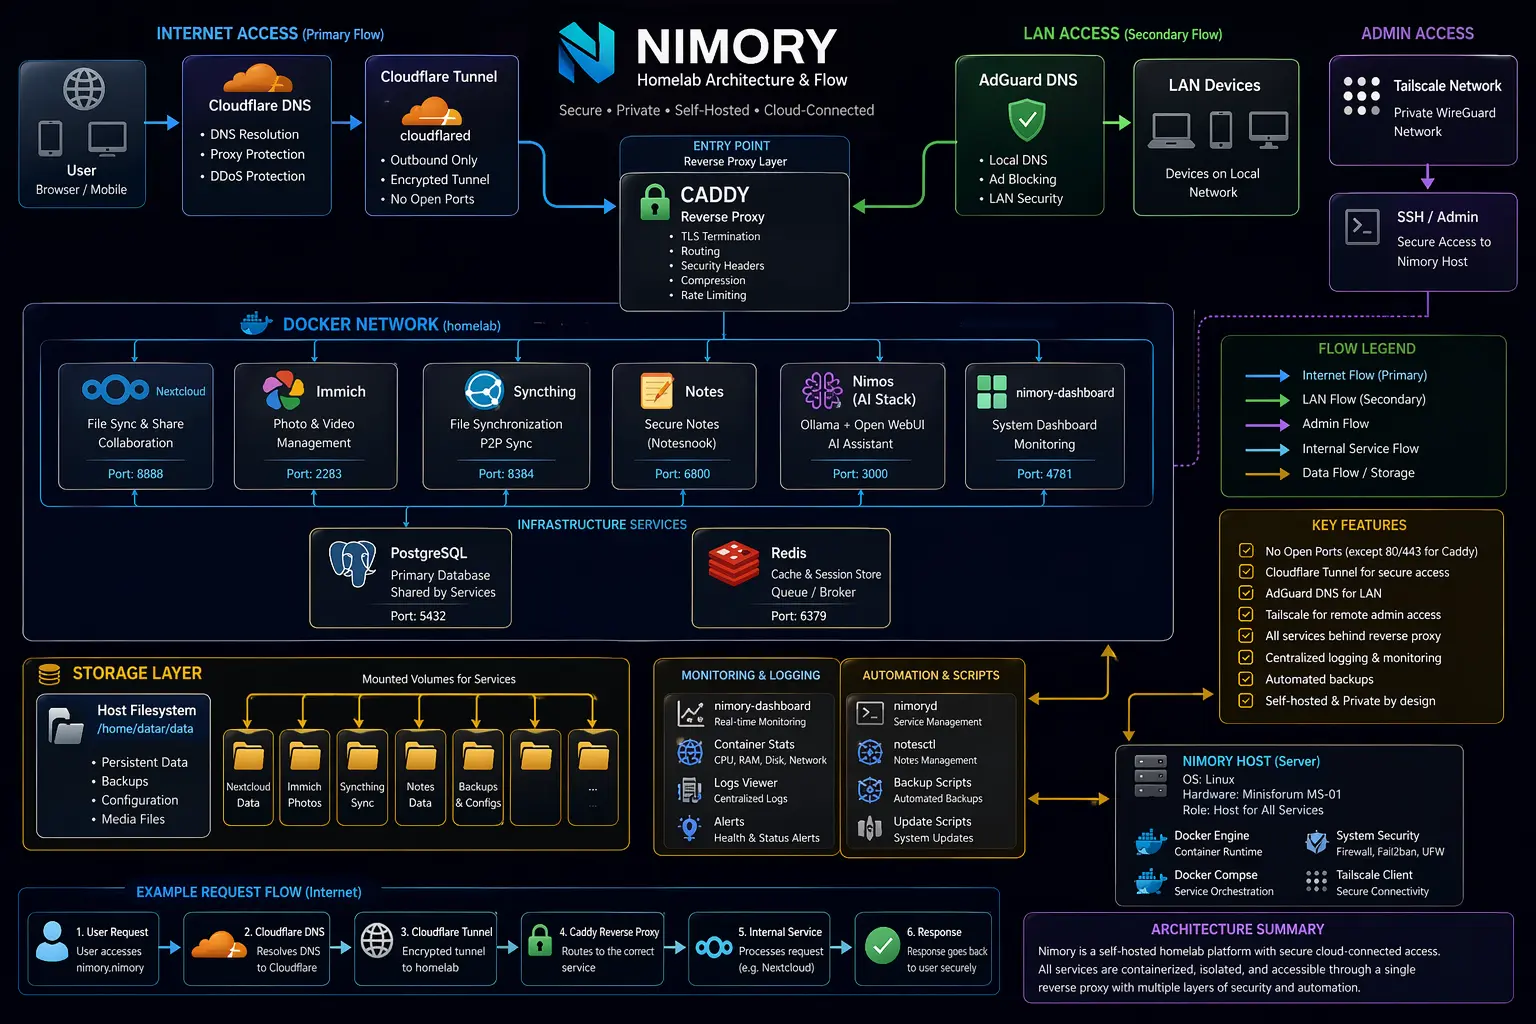
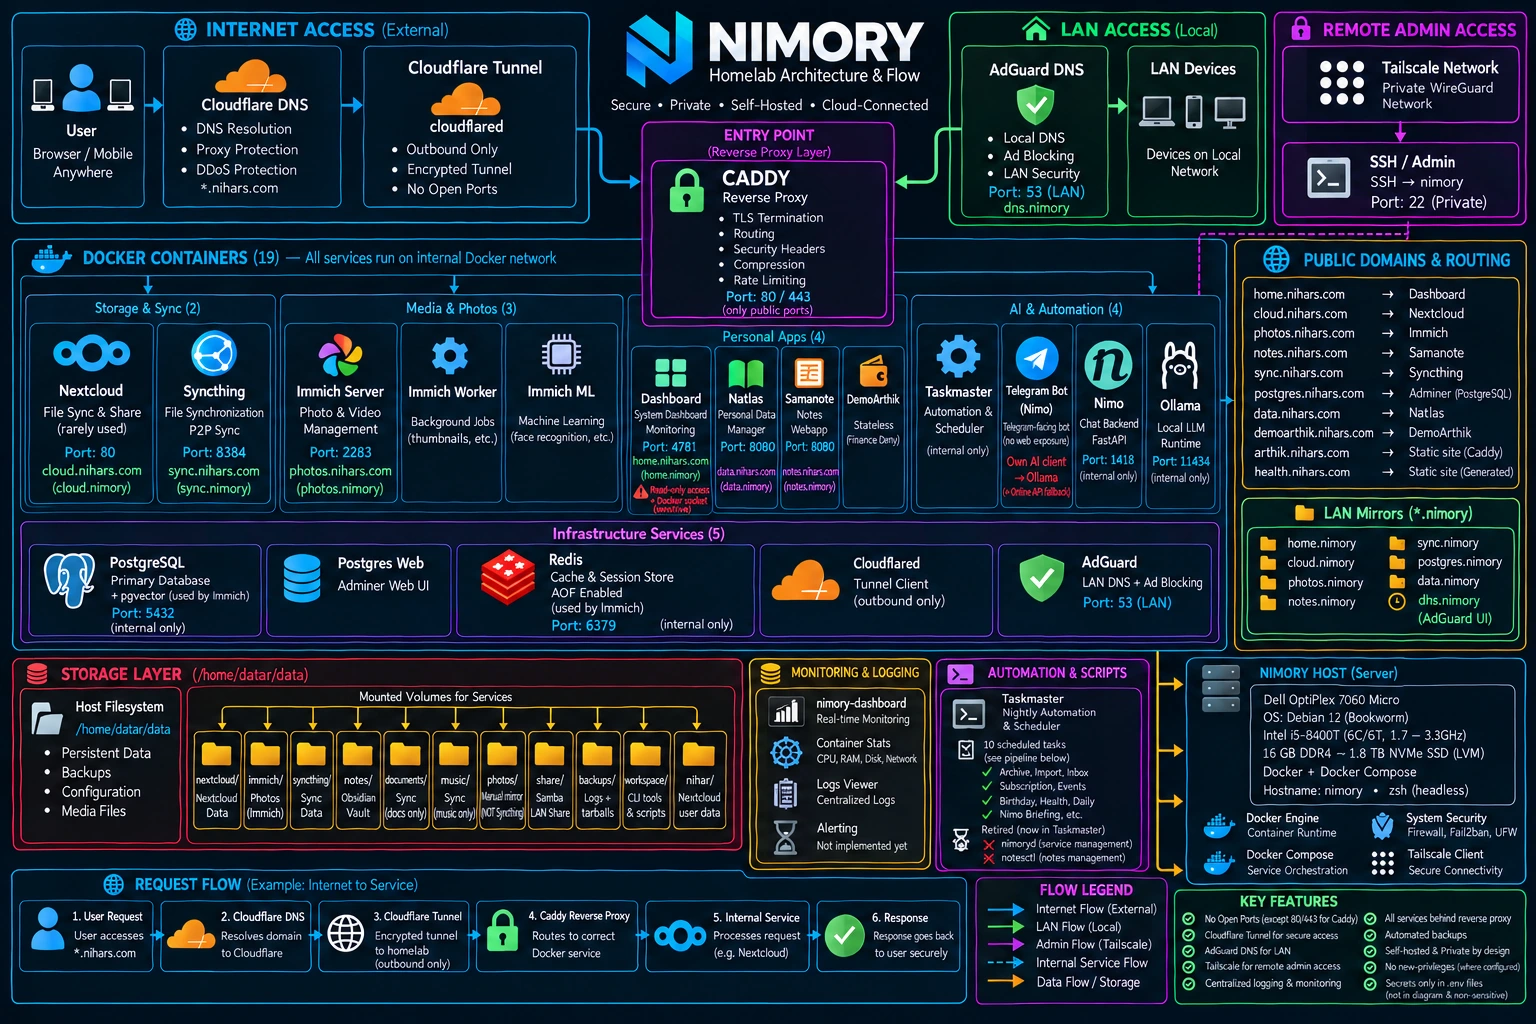
homelab details updated

diff --git a/content/note/homelab_nimory.md b/content/note/homelab_nimory.md
@@ -1,11 +1,11 @@
 ---
 title: "nimory: My Internet at Home"
 subtitle: "nihar's internet microcloud operating runtime yottabyte"
-date: 2026-05-13
+date: 2026-10-03
 tags: [home,note,generic]
 ---
 
-[nimory](https://home.nihars.com) is a single machine running everything I need — files, photos, notes, sync, and local AI.
+[nimory](https://home.nihars.com) is a single machine running everything I need — files, photos, notes, sync, automation, and local AI.
 No subscriptions. No third-party dependency for the things that matter.
 
 This is a write-up of how it's built and how it works.
@@ -19,7 +19,7 @@ This is a write-up of how it's built and how it works.
 
 ## Hardware 🖥
 
-A Dell OptiPlex 7060. Small form factor, low power, silent enough to ignore.
+A Dell OptiPlex 7060 Micro. Small form factor, low power, silent enough to ignore.
 
 * Hostname : nimory
 * OS       : Debian 12 (Bookworm)
@@ -104,7 +104,11 @@ Security headers:
 * sync.nihars.com → Syncthing
 * home.nihars.com → Dashboard
 * notes.nihars.com → Samanote
-* nimos.nihars.com → AI UI
+* postgres.nihars.com → Adminer (Postgres admin)
+* data.nihars.com → Natlas
+* health.nihars.com → static health site (generated nightly)
+* arthik.nihars.com → static site
+* demoarthik.nihars.com → Arthik demo
 
 ### LAN Domains
 
@@ -113,7 +117,8 @@ Security headers:
 * sync.nimory → Syncthing
 * home.nimory → Dashboard
 * notes.nimory → Samanote
-* nimos.nimory → AI UI
+* postgres.nimory → Adminer
+* data.nimory → Natlas
 * dns.nimory → AdGuard
 
 ---
@@ -134,32 +139,62 @@ Each service runs in isolation and communicates over a shared internal network.
 
 ### Infrastructure
 
-* postgres → shared database
+* postgres (pgvector) → shared database
+* postgresweb → Postgres admin UI (Adminer)
 * redis → cache + queues
 
 ### Files + Sync
 
-* nextcloud → file storage
-* syncthing → folder sync
+* nextcloud → file storage (rarely used day-to-day)
+* syncthing → folder sync (notes, documents, music)
 
 ### Photos (Immich)
 
 * immich_server → API + UI
 * immich_worker → background jobs
-* immich_ml → ML processing
+* immich_ml → ML processing (face detection, etc.)
 
-### AI Stack (Nimos)
+### AI Runtime
 
-* nimos_ollama → model runtime
-* nimos_webui → chat UI
-* nimos → backend
+* ollama → local model runtime
+* nimo → chat backend (used internally, e.g. by the nightly briefing)
+* telegrambot → "Nimo," the Telegram-facing persona
 
-Everything runs locally. No external API calls.
+Each talks to Ollama independently — there's no shared AI gateway, just one local
+runtime backing two different front doors. Everything runs locally. No external API calls
+unless I've explicitly enabled an online fallback.
 
 ### Apps
 
+* natlas → personal data manager (events, subscriptions, inventory, health, birthdays)
+* taskmaster → nightly automation and scheduling
 * samanote → notes (file-based)
 * dashboard → system homepage
+
+---
+
+## The Three Custom Apps 🧩
+
+Previous write-ups of nimory glossed over this, but three home-built apps are really what
+the whole machine is *for*. Everything else — Caddy, Immich, Nextcloud — is infrastructure
+in service of these:
+
+**Natlas** is the web UI — a single-user FastAPI + Alpine.js app for editing the flat-file
+vault: events, subscriptions, inventory, health, birthdays. Plugin-first: a new feature is a
+folder, not a change to the core.
+
+**Taskmaster** is the automation layer — one container, one internal scheduler, no OS-level
+cron. It runs a nightly pipeline over the same vault: rolling over old notes, advancing
+recurring events, syncing birthdays from Google Contacts, regenerating the static health site,
+and sending me a daily briefing over Telegram.
+
+**Nimo** is the AI persona, reachable two ways — as a Telegram bot I talk to directly, and as
+an internal chat backend Taskmaster calls for the nightly briefing. Backed by a local Ollama
+model, with an online fallback if I want it.
+
+All three read and write the same plain YAML/Markdown/CSV files in an Obsidian vault — no
+database, no API layer between them. That's deliberate: I can open any of these files by hand
+and understand exactly what's in it.
 
 ---
 
@@ -169,51 +204,50 @@ All persistent data lives on host:
 
     /home/datar/
     ├── data/
-    │   ├── notes/
+    │   ├── notes/       ← the vault: events, subscriptions, health, inventory, birthdays
+    │   ├── documents/   ← Syncthing
+    │   ├── music/       ← Syncthing
+    │   ├── photos/      ← manual, selected subset only (not Syncthing)
+    │   ├── share/       ← Samba, LAN only
     │   ├── backups/
     │   └── workspace/
     └── docker/
 
 * Containers mount host paths
-* Rebuilds don’t affect data
+* Rebuilds don't affect data
 
 ---
 
 ## Automation ⚙
 
-Two cron jobs manage the system:
+Taskmaster replaces what used to be two host cron jobs. It runs its own scheduler inside one
+container, against `schedule.yml`, and works through a nightly pipeline against the vault:
 
-    30 2 * * * flock -n /tmp/notesctl.lock timeout 60m  ./notesctl
-    30 3 * * * flock -n /tmp/nimoryd.lock  timeout 180m ./nimoryd
+    archive rollover → inbox cleanup → subscriptions → event lifecycle
+      → birthday sync (weekly) → event updates → regenerate health site
+      → build daily briefing → send it to Telegram
 
-### notesctl
-
-* Creates daily notes
-* Removes empty notes
-* Archives old notes
-* Encrypts + uploads backups
-
-### nimoryd
-
-* Ensures Tailscale is running
-* Restarts containers
-* Updates compose stacks
-* Pulls git repos
-* Builds tools
-* Manages backups
+Nothing touches the vault without going through `yaml.safe_dump` — a past f-string YAML writer
+once corrupted an events file, so every writer (Natlas, Taskmaster, the Telegram bot) follows
+the same rule now.
 
 ---
 
 ## Security Model 🔐
 
 * No open router ports
-* No public SSH
+* No public SSH — Tailscale only
 * Internal-only databases
-* `no-new-privileges` enabled
-* Encrypted backups (AES-256)
+* `no-new-privileges` enabled on hardened containers
+* Encrypted backups
 * All access via Caddy
+* Secrets only in `.env` files — never in compose files or app config
 
-Attack surface is intentionally minimal.
+One deliberate exception: the dashboard has read-only access to the host filesystem and the
+Docker socket, which is how it shows live container and system stats. It's the one container
+with that level of visibility, and I'm keeping it that way on purpose rather than by oversight.
+
+Attack surface is otherwise intentionally minimal.
 
 ---
 
@@ -223,10 +257,11 @@ Attack surface is intentionally minimal.
 * Restore documentation
 * Backup retention policy
 * Advanced monitoring
+* A proper finance dashboard (demoarthik is the prototype)
+* Vector search over the vault (Postgres already has pgvector ready for it)
 
 ---
 
 nimory runs quietly and stays out of the way.
 
-It’s not complex for the sake of it. Just controlled, predictable, and entirely mine.
-
+It's not complex for the sake of it. Just controlled, predictable, and entirely mine.
